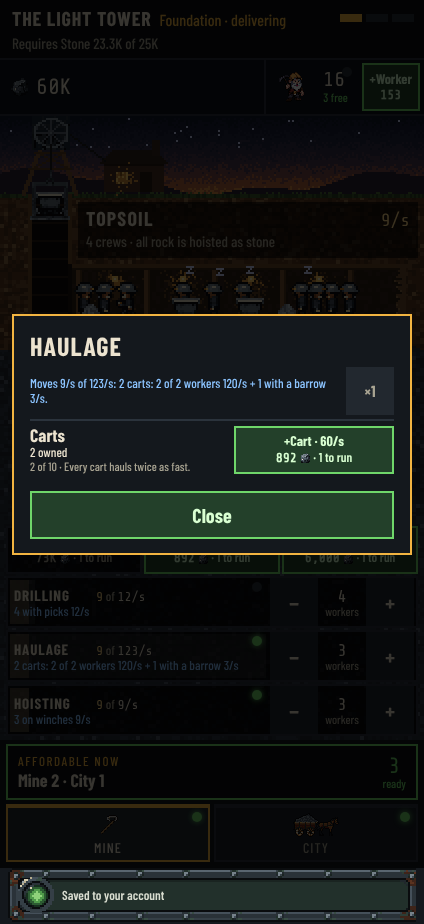
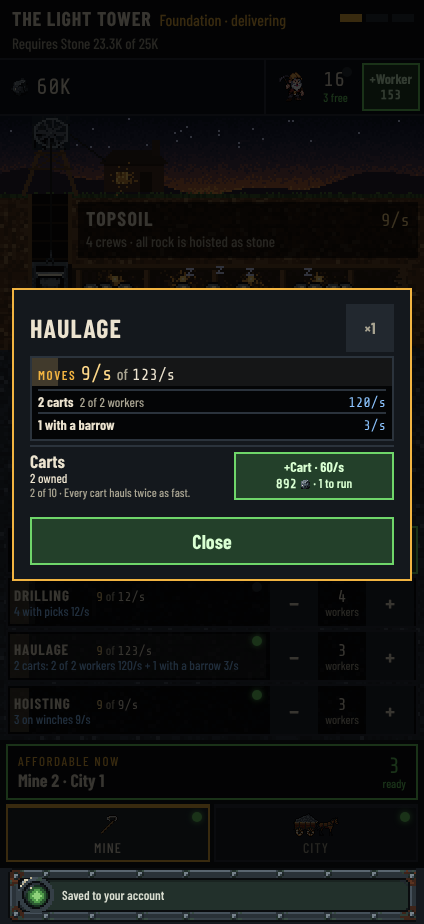
A stage's list: the docs, the audit shots, and Flemming's yes in the plan
Claude-Session: https://claude.ai/code/session_011RgeWuqtnTRfrJx9irL8aB

Changed region(s): [[0.0307, 0.2727, 0.9811, 0.6364], [0.092, 0.1818, 0.1533, 0.2424]]

diff --git a/docs/ARCHITECTURE.md b/docs/ARCHITECTURE.md
@@ -800,7 +800,7 @@ Staffing (#140), the workers' name (#139), the field log (#141–#143), engineer
 - One workforce (#689; same spec, rule 2): `workforce` holds the jobs (`JOB_IDS`: drilling, haulage and hoisting, one for each stage of the line, driving and building) and `Mountain.jobs`. Every worker he owns (`owned.helper`) is on one job or free (`freeWorkers`); a hire is the worker's `buyTier` and starts free, and `placeWorker` / `freeWorker` move up to a count, for free: the free workers there are, or the ones on the job (#659, the amount key). The moves are `placeWorker` and `freeWorker` in `economy/actions`, each with its `count`, listed only in a fresh mine and with a count of one for the lab; nothing moves a worker for him, unattended or live. `lineWork` is the line under fresh, read by `effectiveRates`: each stage's workers run the machines that together move the most (`stageWork`, exact, so one more worker or machine never lowers a stage) and the rest work with a tool at three times a worker's speed; a machine takes `staff` workers from its tier row and stands idle without them (`helpersShort`), and the line is its slowest stage, with no spreading. Better boots and the worker marks lift only the tools. Free workers count toward the marks. Helping hands counts the workers on haulage (`synergyBonus`, `upgrades`). `fleetRate` (`transport`) counts only the vehicles with a driver, the ones that carry most first. Save: `jobs` in the game map, left out at 0; more on jobs than he owns reads `bad`.
 - Slice 1's frame, beside today's board (#659; slice 1 spec, "The frame, the same on every site", "The workforce", "What Next and the lamps count"): a second composition root, `frame-screen`, that `main` mounts instead of `mountMountainScreen` only in a dev build with `?slice=1`. That boot (`createAppServices`) holds the fresh mine's switch on for the page (`holdFactors`, beside `withFactors` in `economy/factors`) and plays a memory save as its own dev account (`dev-slice`, so neither a real save nor the other memory previews' `dev-dad` backup is touched); its play saves (`slice`, `slice-ordered`, `slice-stands`, `slice-busy`) seed that account's phone backup (`DEV_BACKUP_KEY`, `seedKey` in the browser harness). What it shows is worked out in pure views with unit tests: `frame-view` (the order strip: the building in hand, its step and state, and what the step requires with what is built in, or after the part's last roof what is operational; the stockpile, with no room until the stockyard; the workers and the free ones; the hire key, priced by `tierQuote` at the amount), `next-view` (each site's count of what he can afford now: the mine's machines of the line and the upgrades shown in its stages, the city's vehicles; the workforce's own count for the worker's upgrades; hiring is never counted; Next points at a building nobody has ordered, else counts, else says nothing is affordable on the sites and whether the line runs; a site's lamp) and `workforce-view` (every open job, grouped by site, with what its workers run and its count). `frame-screen` and `workforce-sheet` only paint them and dispatch moves: the hire key (`buyTier`, or `buyTiers` at ×10 and Max) in the top row of every site and in the sheet's head, and each job's − and + (`placeWorker` / `freeWorker` with the amount key's count). The amount key is Buys' own: `deviceAmount` and `paintAmountKey` (`buys-amount`) are the one amount on the device, and the hire key dispatches `tierBuyMove` (`economy/actions`), as Buys does. The frame shares `save-on-leave` and `createSaveLine` with the board. The scenes come with their own slivers (#660, #662); until then the middle is the site's dark ground.
 - The mine on slice 1's frame (#660; slice 1 spec, "The mine"): `mine-site` fills the frame's middle on the mine's site. Its pure view, `mine-view`, has the Topsoil's plate (`levelPlate`), a key for each stage's strongest machine in play and open (`machineKeys`, priced by `tierQuote` at the amount key's amount and bought with `tierBuyMove`), a row for each stage (`stageRows`: what the line moves now, what the stage can move, and who works with what as summands from `rowParts`, which reads `stageWork`; `printedParts` prints them so they add up to the printed total, and `crewTimer` in `rates` scales them under a crew timer) and the scene's state (`mineScene`: where rock piles, the share of tubs that leave full and the time they can unload, each stage's busy share and its machines that run or stand). A machine the stage has the workers for, left standing because tools move more, is the row's third state (`stands`). `mine-scene` draws the scene on a canvas in art px, on the board's `runBoardLoop`: the ground once a height, then the hoists on the surface (lit while they run, dim while they stand), the cage, the workers (those who wait take the slots away from their stage's machines), the tubs with the carts that do not run parked at the shaft end, the piles and the drill, about ten times a second, with the game's sprites. A key and Next's count share `tierOnSale` (`crew`), the rows read `stageMachines` (`workforce`), and the word tables (`plural`, `TOOL_WORDS`, `MACHINE_WORDS`) are in `screen-words`. The − and + on a row are the workforce sheet's own (`job-steps`: `stepper`, `paintSteps` and `listenSteps`, with the no-free-worker note).
-- A stage's list on slice 1's frame (#661; slice 1 spec, "What the prototype does not show", "What Next and the lamps count"): a tap on a stage's row in the mine (its words are a button; its − and + stay keys of their own) opens `stage-sheet`, a sheet in the workforce's form. Its pure view, `stage-list-view`, has the stage's row in one sentence (`stageRows`), each kind of machine of the stage in play with what he owns, its next ownership mark (`nextMark`) or the reached line, and its key (`machineKey` in `mine-view`, the one the mine's keys use, at the amount key's amount), and the upgrades shown (`upgradeShown`) whose synergy lifts a machine of the stage (`upgradeStage` in `upgrades`), each with its effect and second lines (`upgradeEffectLine`, `upgradeWhyLine`, `upgradeName` in `screen-words`, which has a fresh mine's words: Better boots lifts a worker with a tool, and Helping hands is Cart helpers, counting the workers on haulage) and a key that buys it (`buyUpgrade`) or "Owned". `workersList` is the workers' own part, which `workforce-sheet` shows under the jobs: the workers with their next mark, and Better boots. A stage's row has a lamp, green while `stageCount` (`next-view`) is not zero: its machines at ×1 and its upgrades he can afford. The mine's count on Next and the site bar is the sum of its stages' counts, so the mine's lamp is never green with no row lit. The play save `slice-list` opens the lists' upgrades and Better boots.
+- A stage's list on slice 1's frame (#661; slice 1 spec, "What the prototype does not show", "What Next and the lamps count"): a tap on a stage's row in the mine (its words are a button; its − and + stay keys of their own) opens `stage-sheet`, a sheet in the workforce's form. Its pure view, `stage-list-view`, has what the stage moves of what it can move and a line for each part of who works with what (from `stageRows`' parts and their printed moves, `StageRow.printed`; the row in one sentence for a screen reader), each kind of machine of the stage in play with what he owns, its next ownership mark or the reached line (`markLine` in `milestones`), and its key (`machineKey` in `mine-view` and `buildMachineKey` / `paintMachineKey` in `mine-site`, the ones the mine's keys use, at the amount key's amount), and the upgrades shown (`upgradeShown`) whose synergy lifts a machine of the stage (`upgradeStage` in `upgrades`), each read from today's `upgradeRowView` (`upgrade-rows`; its effect and second lines and its name come from `screen-words`, which has a fresh mine's words: Better boots lifts a worker with a tool, and Helping hands is Cart helpers, counting the workers on haulage) with a key that buys it at the price on the key (`buyUpgrade`) or "Owned". `workersList` is the workers' own part, which `workforce-sheet` shows under the jobs: the workers with their next mark, and Better boots. A stage's row has a lamp, green while `stageCount` (`next-view`) is not zero: its machines at ×1 and its upgrades he can afford. The mine's count on Next and the site bar is the sum of its stages' counts, so the mine's lamp is never green with no row lit. The play save `slice-list` opens the lists' upgrades and Better boots.
 - The city on slice 1's frame (#662; slice 1 spec, "The city", "While a part is the end of the game"): `city-site` fills the frame's middle on the city's site. Its pure view, `city-view`, has the transport plate (`transportPlate`: the drivers, what transport is doing, the fleet with the drivers it has of the drivers it takes and what those carry, and the drivers' − and +), a key for one more wagon (`vehicleKeys`, priced by `vehiclePrice` and bought with `buyVehicle`: one at a time, as no move buys several), the skyline's three plots (`plots`: the Light Tower's, and two vacant), the project's card (`projectCard`: its steps, a bar for each good with what is built in, read from the order strip's `requirements` in `frame-view`; the order key, which places, holds and resumes the order with what `orderNumbers` brings and builds and the step's time from `orderLimit`; the builders with what each builds in and what is on the site; the building's power; after the part's last roof the strip's line and no order key) and the scene's state (`cityScene`). `city-scene` draws the night skyline on a canvas in art px: the building in hand rises from its own picture, cut at (step + built in) ÷ 3 of its height behind code-drawn scaffold, and stands whole with its lamp lit once operational; a vacant plot has stakes and a rope; what is on the site lies beside it as a heap, the builders work there or wait with a "z", and the wagons drive to it as full as transport brings (the picture's heap of stones cut to that share), stand with a "z" with nothing to carry, or stand empty behind the road with no driver. `scene-paint` holds what both scenes draw with (the noise, rects, lines, glows, the night sky, sprite frames, the "z", heaps, the pictures' loader) and their canvas loop, `runScene`, on the board's `runBoardLoop`. The drivers' and builders' − and + are `job-steps`. The play saves `slice-structure` (the structure rising, a wagon with no driver) and `slice-done` (after the roof) show the city's other states.
 - The lab plays part 1 (#655; same spec, Lab): with `fresh.off=0` the strategy lab (`tools/strategy-lab.ts`) plays the player types in `lab/fresh-policies` instead of `lab/policies`, to the last building built so far (`runDone` in `lab/run`: the Light Tower's roof in part 1), and judges no guardrail. A fresh type is a plain dad (`freshPolicy` in `lab/plain`) with `FreshHabits` on its `Policy`: when he moves workers (`once` per building, or `idle`: whenever a job has nothing to do), whether he holds (`on-value` or `never`) and whether he weighs upgrades. `playSecond` hands a fresh type's live second to `playFresh` in `lab/fresh-dad`, which applies his plans until one changes nothing (at most `PLANS_A_SECOND`). `freshPlan`, in order: order the next building; place a free worker (an idle vehicle, a builder, else the slowest stage); for the mover, send drivers and builders with nothing to do to the mine and back, and a stage's spare worker to the slowest; buy the order's fix (`orderLimit`: a wagon with its driver and the builders to keep pace, or a builder) when it pays for itself, saving for it unless the order drains the mine; buy the raise that pays back soonest (`lineRaise`: the slowest stage's best buy per stone, with its workers hired onto it, until the line rises; upgrades too for the optimizer); and hold while that raise pays back sooner than the building takes and the order takes more than half of what the mine makes (`drainsTheMine`, `STARVED_SHARE`), weighed on the mine as it would stand delivering so the mover's moves never undo it. `lab/fresh-view` reads each sample (`FreshView`: the order's limit, a full site, `starved`, the idle workers and the machines tools beat) and the taps that hire and move workers (`workerTaps`, with the amount key on ×10 then ×1), which the sitting log adds up. The report-only measures are `transportLimit`, `siteFull` (both over the samples with an order standing), `starved`, `idleWorkers`, `idleMachines` and `workerMoves`; `narrowRun` reads the placed workers' stages (`narrowAt` in `lab/line-view`).
 - `engineers` (rules layer, pure): `Engineer = { name, rank: 0 | 1 | 2, trips, post: TierId | "camp" }`. In memory an engineer on a trip keeps the post they left, and `onTrip(mountain, name)` is the one test for "away" (#415). `onDuty` gives the crew as the save and the screens see it, with post `"tunnel"` for the ones away; `promote(mountain)`, `station(mountain, i, post)`, `rankOf`, `addTrip`. `promote` takes no `now`: the price does not depend on the clock. Save: `engineers?: Engineer[]` (max 5, names Ada, Nils, Ruth, Otto, Mae). The first engineer arrives with the first borer, already tending it, without spending a worker. The save reader refuses an unknown name, a duplicate, a sixth hand or a post it does not know as `newer` (#558); the rules leave the game map to it. Built (#144). Buying a machine does not call `tendBestTier` (#145); the sheet's post sticks. The pacing sim still calls it.

diff --git a/docs/ui-audit.md b/docs/ui-audit.md
@@ -75,7 +75,7 @@ Slice 1's frame and its workforce (#659), the mine (#660) with a stage's list (#
 | Workforce  | [shot](ui-audit/slice-workforce-busy-424x924.png)  | A sheet over the frame: the workers and the free ones, the amount key and the second hire key, then the jobs by site, each with what its workers run and its count between − and +. A + with no free worker says `No free worker. Hire one, or take one off another job.`                                                                                                                                                                                                                                                                                                                                                                                                                                                                                                                                                                                                                                                                                                                                                                                                                           |
 | Mine       | [shot](ui-audit/slice-mine-busy-424x924.png)       | The mine (#660) in the frame's middle: the mountain cut open (the winding tower, the shaft, the Topsoil's gallery with hoisting at the shaft, haulage on the rail and drilling at the face, where rock piles, tubs run empty or queue, the cage waits and workers who wait stand with a z), the Topsoil's plate (`4 crews · all rock is hoisted as stone`), `Deeper strata: not yet surveyed. The city has to grow first.`, a key for each stage's machine (`+Cart · 60/s`, its price, `1 to run`) and no hire key, and a row for each stage: what it moves now of what it can move, who works with what as a sum that adds up, and its workers between − and +. The frame section also checks that the keys and rows sit under the gallery and the line under it.                                                                                                                                                                                                                                                                                                                                  |
 | City       | [shot](ui-audit/slice-city-busy-424x924.png)       | The city (#662) in the frame's middle: the transport plate (`1 driver`, `serving the city` or `idle: no order`, `2 horse wagons: 1 of 2 drivers 9/s`, the drivers between − and +, `+Wagon · 9/s` with its price and `1 to run`, and no trucks key), the night skyline with the Light Tower rising from its own picture behind scaffold, the stone on its site, the builders, the wagons on the road and one with no driver behind it, two `Vacant plot · unassigned`, and the project's card: its steps, `Stone … of 25K`, the order key (`Place order · the whole building`, or `Delivering · arriving 9/s · building 16/s · 3m · tap to hold`, or `Resume · on hold`), `2 builders ×8/s · on site … of 500` between − and +, and `On completion: night shift output 45%, up from 30%.` After the roof ([shot](ui-audit/slice-city-done-424x924.png)) the card says `The Light Tower is operational · the city is planning its next building` and has no order key. The frame section checks that the plate is on top, the tags over the card at the foot, and that the Light Tower fits between. |
-| Stage list | [shot](ui-audit/slice-stage-haul-busy-424x924.png) | A sheet over the frame (#661), opened by a tap on a stage's row in the mine: the stage's name, its row in one sentence (`Moves 9/s of 123/s: 2 carts: 2 of 2 workers 120/s + 1 with a barrow 3/s.`) and the amount key, its machine (`Carts`, `2 owned`, `2 of 10 · Every cart hauls twice as fast.`) with its key in the mine keys' form, and its upgrades once they open (in the `slice-list` save: `Cart helpers`, `Carts 60/s to 65/s.`, `Each worker on haulage makes carts 1% faster.`, its price, or `Owned`). A stage's row in the mine has a green lamp while its list holds something he can afford. The workforce has `The workers` under the jobs: the workers with their next mark, and Better boots (`Workers with a tool 6/s to 14/s.`).                                                                                                                                                                                                                                                                                                                                             |
+| Stage list | [shot](ui-audit/slice-stage-haul-busy-424x924.png) | A sheet over the frame (#661), opened by a tap on a stage's row in the mine: the stage's name and the amount key, what it moves of what it can move over the row's band (`Moves 9/s of 123/s`) with a line for each part (`2 carts · 2 of 2 workers · 120/s`, `1 with a barrow · 3/s`), its machine (`Carts`, `2 owned`, `2 of 10 · Every cart hauls twice as fast.`) with its key in the mine keys' form, and its upgrades once they open (in the `slice-list` save: `Cart helpers`, `Carts 60/s to 65/s.`, `Each worker on haulage makes carts 1% faster.`, its price, or `Owned`). A stage's row in the mine has a green lamp while its list holds something he can afford. The workforce has `The workers` under the jobs: the workers with their next mark (`16 of 25 · Every worker with a tool works twice as fast.`), and Better boots (`Workers with a tool 3/s to 7.1/s.`).                                                                                                                                                                                                               |
 
 ## On a PC
 

diff --git a/docs/superpowers/plans/2026-11-15-a-stages-list.md b/docs/superpowers/plans/2026-11-15-a-stages-list.md
@@ -5,7 +5,7 @@ Spec: `docs/superpowers/specs/2026-11-14-slice-1-design.md`: "The mine" (a tap o
 ## Rulings (agent-run sitting)
 
 1. **Where it lives.** A stage's list is a sheet over the frame, in the workforce's form (`frame-sheet`), opened by a tap on a stage's row in the mine. The game runs on behind it, and Close shuts it. The row's words are a button for the tap; its − and + stay keys of their own. `stage-list-view` (new: it is a new screen) holds the pure view, and `stage-sheet` the DOM. It changes the game only through `progress.dispatch`.
-2. **Its head** has the stage's name, the row in one sentence ("Moves 18/s of 18/s: 6 with barrows 18/s."), and the amount key, which is the frame's one amount key.
+2. **Its head** has the stage's name and the amount key, then what the stage moves of what it can move over the row's band ("Moves 210/s of 378/s"), and a line for each part of who works with what, its moves at the right ("6 carts · 6 of 6 workers · 360/s", "3 with barrows · 18/s"), adding up to what it can move. Flemming asked for this in place of one line of text (15 Nov 2026, 14:10Z). A screen reader hears the row in one sentence.
 3. **Its machines.** Each kind of machine of the stage in play (one each in part 1: the drill, the cart, the hoist): its name with the count he owns ("Mine carts · 4 owned"), its next ownership mark with its progress ("4 of 10 · Every cart hauls twice as fast."), or "Twice as fast now." past the last, and a key in the mine keys' form ("+Cart · 60/s", its price, "1 to run") that follows the amount key. One key mechanism: `machineKey` (`mine-view`), which the mine's keys use too.
 4. **Its upgrades.** Each upgrade the game shows (`upgradeShown`) whose synergy lifts a machine of the stage: Helping hands on haulage, Cart roads on drilling. A row has its name, what it does in numbers (`upgradeEffectLine`), its second line (`upgradeWhyLine`), and a key with its price, green when he can pay; once bought it reads "Owned". An upgrade that has not opened is not shown, as today.
 5. **No gear, engineer or trouble in part 1.** Gear is made in the factory (part 3), and engineers and trouble by stage are #539 (part 3). The list shows nothing for them.
@@ -15,8 +15,10 @@ Spec: `docs/superpowers/specs/2026-11-14-slice-1-design.md`: "The mine" (a tap o
    - Better boots: "Workers with a tool 3/s to 7.1/s." and "Picks, barrows and winches go faster. Machines, drivers and builders do not."
    - Helping hands becomes "Cart helpers": "Carts 60/s to 63/s." and "Each worker on haulage makes carts 1% faster."
    - The hoist's marks, worded as the cart's ("Ten hoists at the shaft. Every hoist lifts twice as fast."), shown for the first time.
-     The lines are Flemming's: asked as one question with pictures before they are shown.
-9. **One of each mechanism.** The effect and why lines are `screen-words`' (a fresh mine's words beside today's), the marks are `nextMark` (`milestones`), the machine key is `machineKey`, the buy is `tierBuyMove` and `buyUpgrade`, the sheet is the workforce's CSS.
+   - The workers' first mark: "Every worker with a tool works twice as fast." (it was "Every worker digs twice as fast.").
+     Flemming said A, yes to all four as shown, on 15 Nov 2026 (14:11Z).
+9. **One of each mechanism.** The upgrade row is today's `upgradeRowView` (`upgrade-rows`), which now takes its name from `upgradeName`; the effect and why lines are `screen-words`' (a fresh mine's words beside today's); the mark line is `markLine` (`milestones`); the machine key is `machineKey` (`mine-view`) and its DOM `buildMachineKey` / `paintMachineKey` (`mine-site`); the buy is `tierBuyMove` and `buyUpgrade` at the price on the key (#367); the sheet is the workforce's CSS.
+10. **The lamps count at ×1** (review, Minor). At ×10 a row can be lit while its "+10" key is dark. Next's count is "every buy he can afford now", and the amount key is in the list's head, so a lit row always has a buy one tap away.
 
 ## Tasks
 
